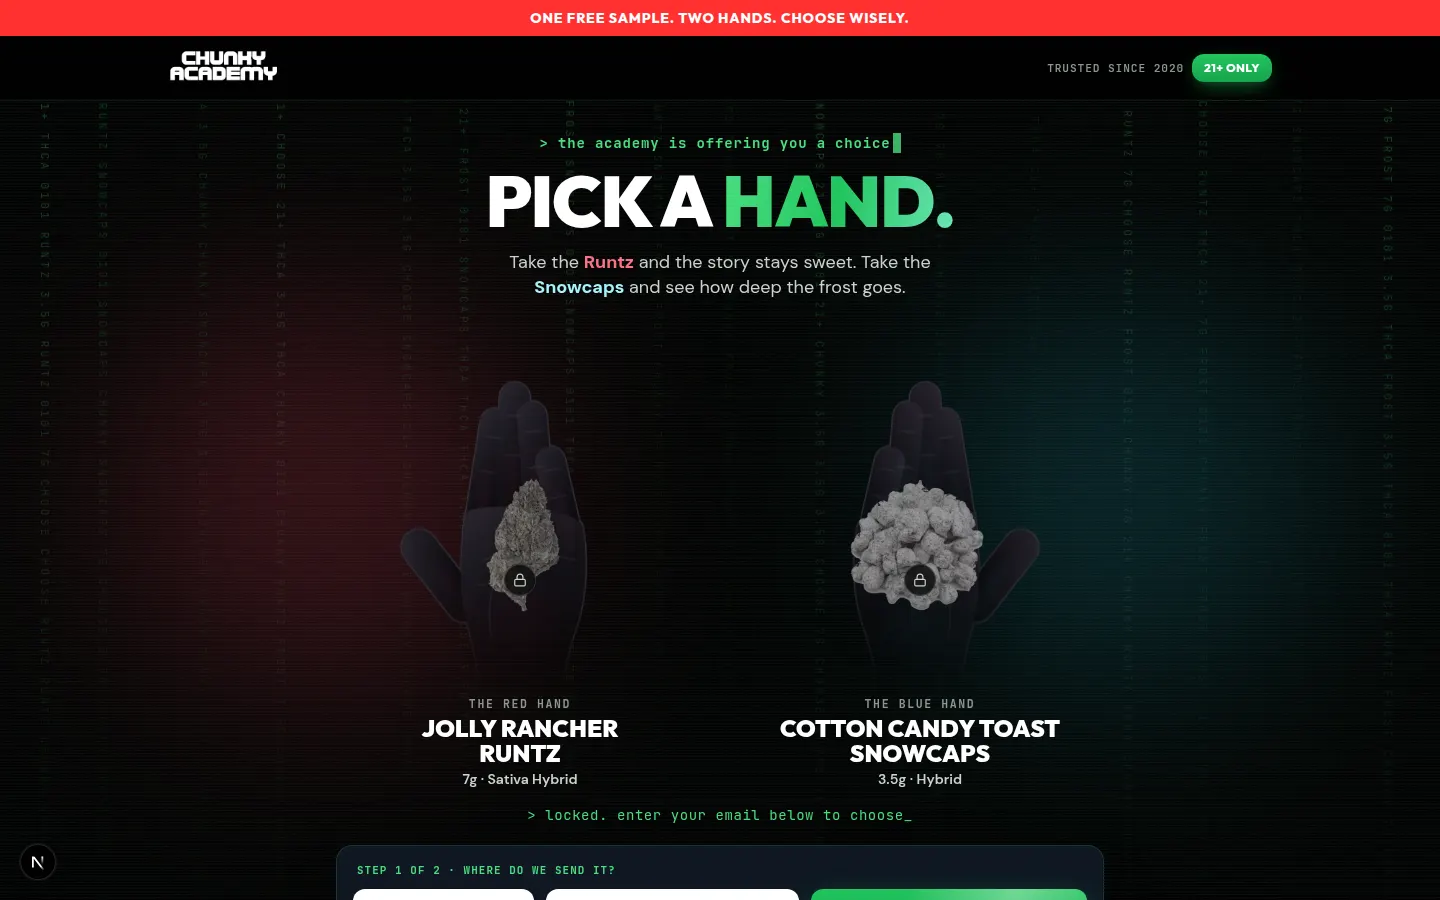
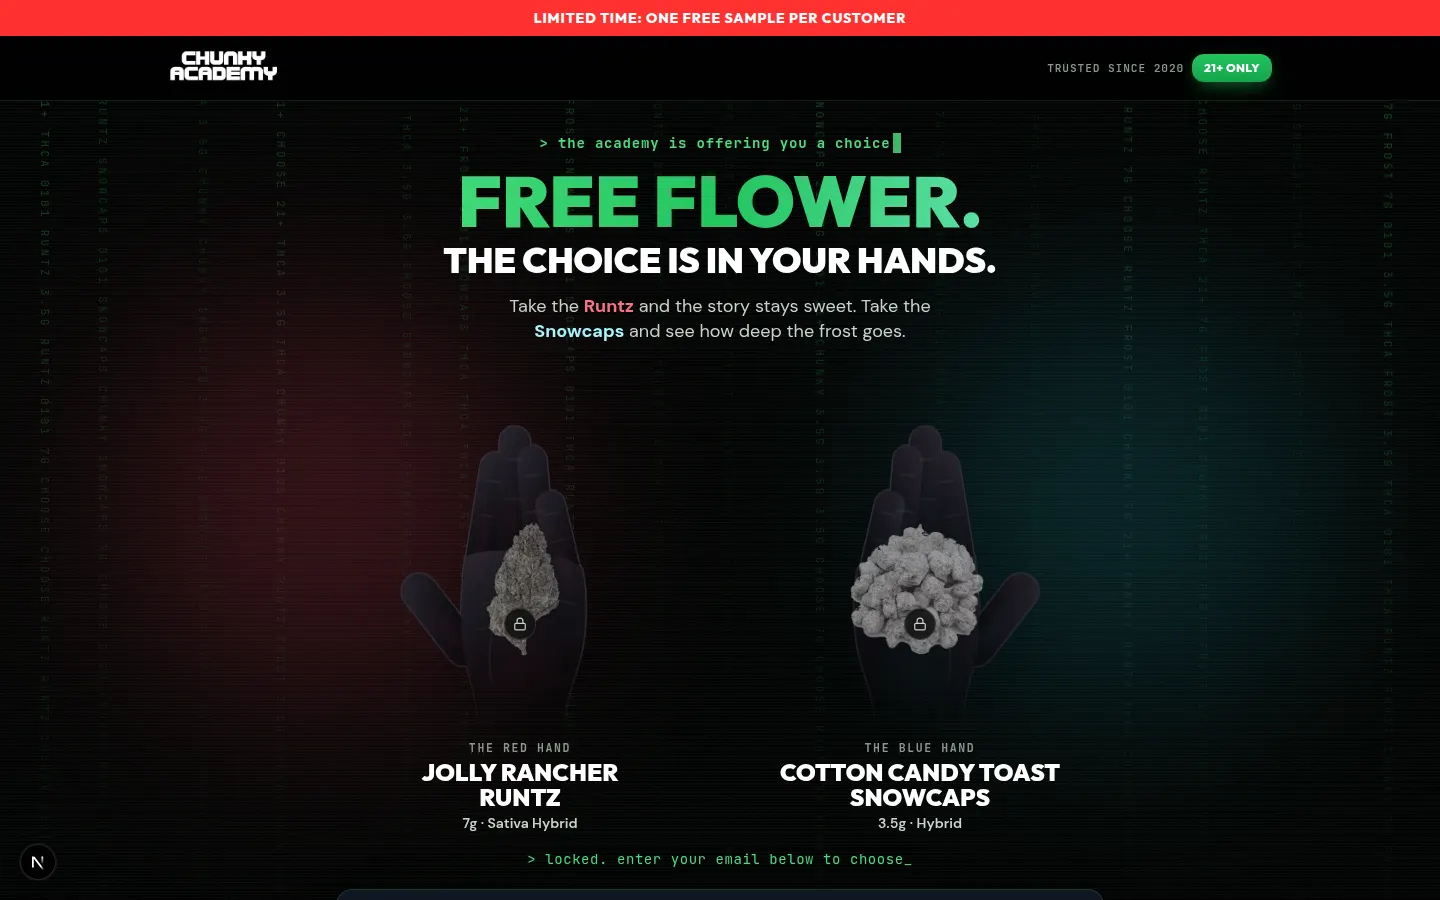
Lead both free-sample heroes with "Free flower" and the customer's choice
- v1: "Free flower. Your choice." with a subhead naming both samples and
  that the pick is theirs.
- v2: "Free flower. The choice is in your hands." over the two hands; the
  red bar now states the one-per-customer limit instead of repeating it.
- Page titles, the /chunky index and the setup guide follow the new copy.

Claude-Session: https://claude.ai/code/session_01GPq7EkUfzpGMopgwLVUq3q

diff --git a/src/app/(chunky)/chunky/free-sample-v2/page.tsx b/src/app/(chunky)/chunky/free-sample-v2/page.tsx
@@ -19,7 +19,7 @@ import { ReturningNotice } from "@/components/chunky/use-claim";
 import { claimConfig } from "@/lib/chunky/config";
 
 export const metadata: Metadata = {
-  title: "Pick a Hand | Free Sample | Chunky Academy",
+  title: "Free Flower: The Choice Is in Your Hands | Chunky Academy",
 };
 
 const steps = [
@@ -57,7 +57,7 @@ export default function FreeSampleV2() {
   return (
     <>
       <ReturningNotice />
-      <UrgencyBar>One free sample. Two hands. Choose wisely.</UrgencyBar>
+      <UrgencyBar>Limited time: one free sample per customer</UrgencyBar>
       <div className="relative isolate overflow-hidden bg-black">
         <div aria-hidden className="pointer-events-none absolute inset-0 -z-10">
           <CodeRain />
@@ -76,8 +76,11 @@ export default function FreeSampleV2() {
               &gt; the academy is offering you a choice
               <span className="ml-0.5 inline-block w-2 animate-ca-pulse bg-ca-neon">&nbsp;</span>
             </p>
-            <h1 className="mt-2 animate-ca-rise font-ca-display text-[2.9rem] leading-[0.9] font-black tracking-[-0.02em] uppercase [animation-delay:60ms] sm:mt-4 sm:text-7xl">
-              Pick a <span className="ca-text-green">hand.</span>
+            <h1 className="mt-2 animate-ca-rise font-ca-display font-black tracking-[-0.02em] uppercase [animation-delay:60ms] sm:mt-4">
+              <span className="ca-text-green block text-[2.8rem] leading-[0.9] whitespace-nowrap sm:text-7xl">Free flower.</span>
+              <span className="mt-1.5 block text-[1.6rem] leading-[1] text-balance sm:mt-2 sm:text-4xl">
+                The choice is in your hands.
+              </span>
             </h1>
             <p className="mx-auto mt-3 max-w-sm animate-ca-rise text-[0.95rem] leading-snug text-ca-ink-2 [animation-delay:120ms] sm:mt-4 sm:max-w-md sm:text-lg">
               Take the <span className="font-bold text-runtz-hi">Runtz</span> and the story stays sweet. Take

diff --git a/src/app/(chunky)/chunky/free-sample-v1/page.tsx b/src/app/(chunky)/chunky/free-sample-v1/page.tsx
@@ -21,7 +21,7 @@ import { ReturningNotice } from "@/components/chunky/use-claim";
 import { claimConfig } from "@/lib/chunky/config";
 
 export const metadata: Metadata = {
-  title: "Claim Your Free Sample | Chunky Academy",
+  title: "Free Flower, Your Choice | Chunky Academy",
 };
 
 const steps = [
@@ -61,13 +61,13 @@ export default function FreeSampleV1() {
               <Gift className="size-3.5" /> Free sample drop<span className="hidden sm:inline"> · While supplies last</span>
             </Pill>
             <h1 className="mt-3 animate-ca-rise font-ca-display text-[2.55rem] leading-[0.92] font-black tracking-[-0.02em] text-balance uppercase [animation-delay:60ms] sm:mt-5 sm:text-7xl">
-              Two strains.
+              <span className="ca-text-green text-[1.22em]">Free flower.</span>
               <br />
-              <span className="ca-text-green">One&apos;s on us.</span>
+              Your choice.
             </h1>
             <p className="mx-auto mt-3 max-w-md animate-ca-rise text-[0.98rem] leading-snug text-ca-ink-2 [animation-delay:120ms] sm:mt-5 sm:text-lg">
-              More flower or more frost? Pick your free sample.{" "}
-              <span className="font-semibold text-white">{claimConfig.offerNote}</span>
+              7g of Jolly Rancher Runtz or 3.5g of Cotton Candy Toast Snowcaps. Both are free; which one you
+              take is up to you. <span className="font-semibold text-white">{claimConfig.offerNote}</span>
             </p>
             <SpotsLeft className="mt-3" />
           </div>

diff --git a/src/app/(chunky)/chunky/page.tsx b/src/app/(chunky)/chunky/page.tsx
@@ -10,12 +10,12 @@ export const metadata: Metadata = {
 const versions = [
   {
     href: "/chunky/free-sample-v1/",
-    name: "Version 1: Two strains. One's on us.",
+    name: "Version 1: Free flower. Your choice.",
     body: "Side-by-side product cards with the form right under them. Pick, type, claim. A sticky claim bar follows on phones.",
   },
   {
     href: "/chunky/free-sample-v2/",
-    name: "Version 2: Pick a hand",
+    name: "Version 2: Free flower. The choice is in your hands.",
     body: "Red hand or blue hand. The email unlocks the hands; the hand you tap goes straight to checkout.",
   },
 ];

diff --git a/docs/chunky/INTEGRATION.md b/docs/chunky/INTEGRATION.md
@@ -4,8 +4,8 @@ Two landing pages, same offer, different hero. Pick one or A/B test them.
 
 | Page | URL path | Hero |
 | --- | --- | --- |
-| Version 1 | `/chunky/free-sample-v1/` | "Two strains. One's on us." Product cards side by side, form directly under them, sticky claim bar on phones. |
-| Version 2 | `/chunky/free-sample-v2/` | "Pick a hand." Red hand (Runtz) or blue hand (Snowcaps). The email unlocks the hands; the tapped hand goes to checkout. |
+| Version 1 | `/chunky/free-sample-v1/` | "Free flower. Your choice." Product cards side by side, form directly under them, sticky claim bar on phones. |
+| Version 2 | `/chunky/free-sample-v2/` | "Free flower. The choice is in your hands." Red hand (Runtz) or blue hand (Snowcaps). The email unlocks the hands; the tapped hand goes to checkout. |
 | Index | `/chunky/` | Internal links to both. |
 
 Both pages are `noindex`, use Chunky's own logo, fonts (Outfit + DM Sans), colors, trust badges, stats and footer disclaimer, and share one config.
